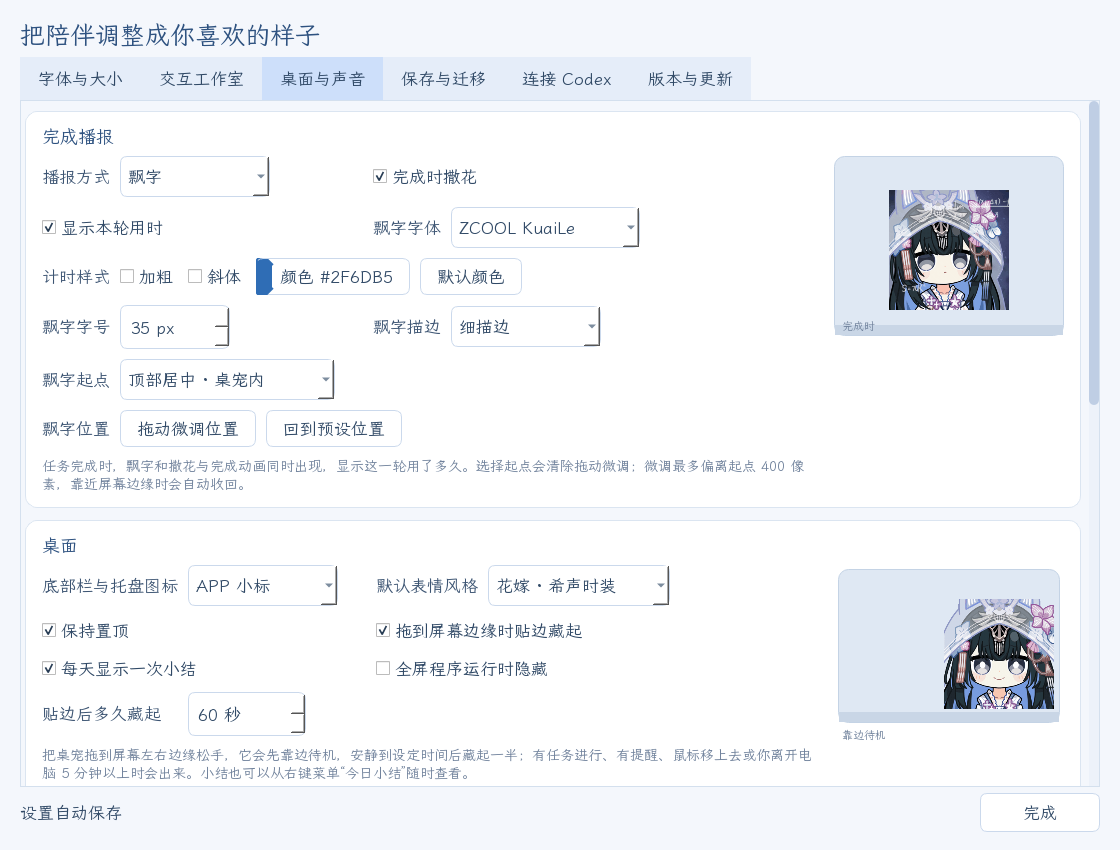
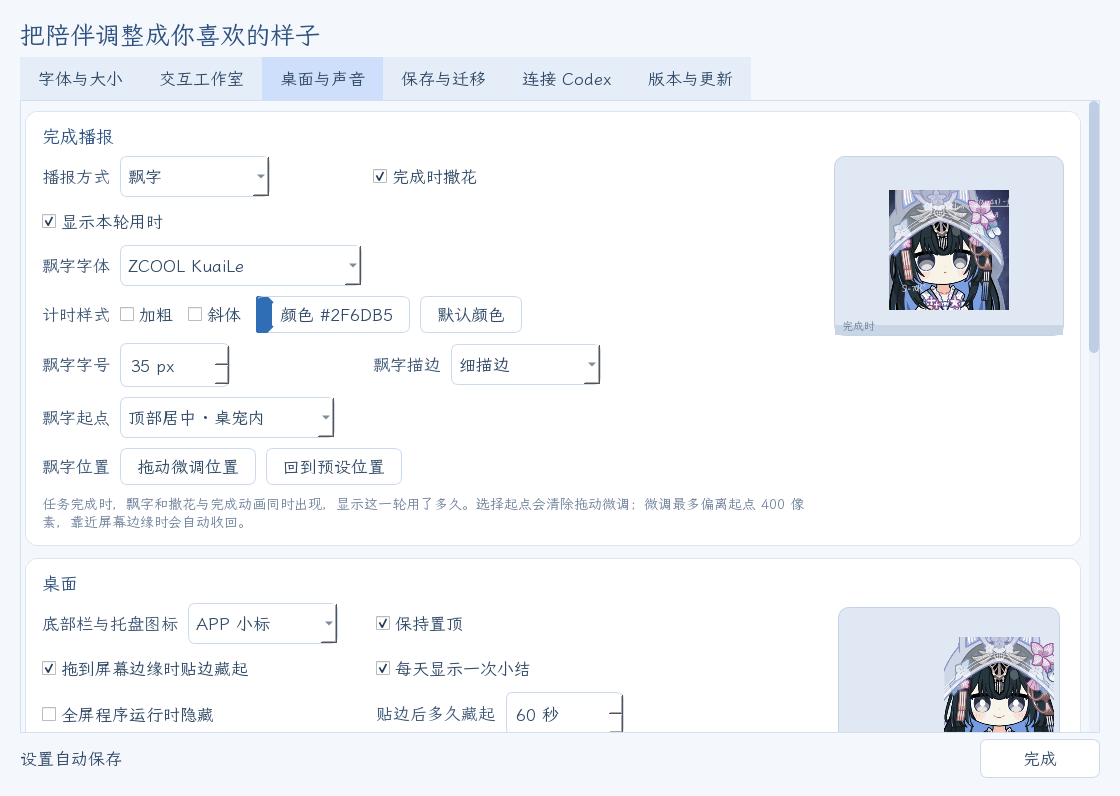
Remove the original-outfit expression preset
Its stand-ins for interactions without a same-named sticker were poor.
Selena now always starts from the bridal set: the skin drop-down is gone
from Desktop & Sound, and a saved or imported 原皮 preset falls back to
bridal. The original stickers stay in the library, and an interaction
set to one of them by hand keeps it. README and the settings screenshot
follow.

diff --git a/tests/test_skin_preset.py b/tests/test_skin_preset.py
@@ -1,0 +1,51 @@
+"""The 原皮 expression preset was removed: Selena always starts from the bridal set, while the original-outfit
+stickers stay in the library for anyone who picks them one interaction at a time."""
+import pathlib,tempfile,unittest
+from unittest.mock import patch
+from PySide6.QtWidgets import QApplication,QComboBox
+from selena_pet import pet as module
+from selena_pet.config_io import save_atomic
+
+
+class OriginalPresetRemovedTests(unittest.TestCase):
+    @classmethod
+    def setUpClass(cls):
+        cls.app=QApplication.instance() or QApplication([]);cls.app.setQuitOnLastWindowClosed(False)
+
+    def make(self,**settings):
+        self.temp=tempfile.TemporaryDirectory();path=pathlib.Path(self.temp.name)/'settings.json'
+        save_atomic(path,dict(appearance=dict(audio_muted=True),**settings))
+        self.patch=patch.object(module,'SETTINGS',path);self.patch.start()
+        self.pet=module.Pet(offline=True);self.pet.timer.stop();self.pet.slow_timer.stop()
+        return self.pet
+
+    def tearDown(self):
+        if getattr(self.pet,'preferences',None):self.pet.preferences.hide()
+        self.pet.hide();self.patch.stop();self.temp.cleanup()
+
+    def test_only_the_bridal_preset_is_left(self):
+        pet=self.make();self.assertEqual(list(module.PACKS),['花嫁']);self.assertEqual(pet.pack,'花嫁')
+
+    def test_a_saved_original_preset_falls_back_to_bridal(self):
+        pet=self.make(pack='原皮');self.assertEqual(pet.pack,'花嫁')
+        for state,asset in module.PACKS['花嫁'].items():self.assertEqual(pet.binding(state)['asset'],asset,state)
+
+    def test_imported_settings_with_the_original_preset_fall_back_too(self):
+        pet=self.make();pet.apply_settings(dict(pet.settings,pack='原皮'))
+        self.assertEqual(pet.pack,'花嫁');self.assertEqual(pet.binding('idle')['asset'],module.PACKS['花嫁']['idle'])
+
+    def test_original_stickers_stay_in_the_library_and_a_chosen_one_is_kept(self):
+        original=[a['id'] for a in module.CATALOG if a.get('skin')=='原皮']
+        self.assertEqual(len(original),48)
+        pet=self.make(pack='原皮',bindings=dict(pet=dict(asset=original[0])))
+        self.assertEqual(pet.binding('pet')['asset'],original[0])
+        self.assertEqual(pet.binding('idle')['asset'],module.PACKS['花嫁']['idle'])
+
+    def test_the_settings_offer_no_skin_preset(self):
+        pet=self.make();pet.open_preferences('桌面与声音');d=pet.preferences
+        texts=[c.itemText(i) for c in d.findChildren(QComboBox) for i in range(c.count())]
+        self.assertFalse([t for t in texts if '原皮' in t or '花嫁' in t],texts)
+
+
+if __name__=='__main__':
+    unittest.main()

diff --git a/selena_pet/preferences.py b/selena_pet/preferences.py
@@ -62,7 +62,6 @@ class Preferences(QDialog):
         voice.section('桌面',self.preview('desk'))
         icon_style=QComboBox();icon_style.addItem('APP 小标','badged');icon_style.addItem('纯净图标','clean')
         icon_style.currentIndexChanged.connect(lambda:self.change('tray_icon_style',icon_style.currentData()));self.controls['tray_icon_style']=icon_style;voice.addRow('底部栏与托盘图标',icon_style)
-        self.pack=QComboBox(); self.pack.addItem('花嫁 · 希声时装','花嫁'); self.pack.addItem('原皮 · 原版','原皮'); self.pack.currentIndexChanged.connect(lambda:pet.set_pack(self.pack.currentData()) if not self.loading else None); voice.addRow('默认表情风格',self.pack)
         self.top=QCheckBox('保持置顶'); self.top.toggled.connect(lambda value:pet.set_top(value) if not self.loading else None); voice.addRow(self.top)
         for key,label in (('edge_dock','拖到屏幕边缘时贴边藏起'),('daily_recap','每天显示一次小结'),('fullscreen_hide','全屏程序运行时隐藏')):
             box=QCheckBox(label); box.toggled.connect(lambda value,key=key:self.change(key,value)); self.controls[key]=box; voice.addRow(box)
@@ -209,7 +208,7 @@ class Preferences(QDialog):
             elif isinstance(control,QSpinBox): control.setValue(round(value))
             elif isinstance(control,QCheckBox): control.setChecked(bool(value))
             else: control.setText(value)
-        self.top.setChecked(self.pet.on_top); self.notes.setChecked(self.pet.show_notes); self.pack.setCurrentIndex(self.pack.findData(self.pet.pack))
+        self.top.setChecked(self.pet.on_top); self.notes.setChecked(self.pet.show_notes)
         self.refresh_threads(); self.size_control.refresh(); self.editor.update_timing(); self.paint_color_buttons()
         self.connection_status.setText('当前数据目录：'+str(self.pet.monitor.home)); self.loading=False
         for combo in self.findChildren(QComboBox):widen(combo)

diff --git a/selena_pet/pet.py b/selena_pet/pet.py
@@ -47,9 +47,9 @@ STATES={
  'doubleclick':('双击回应','我在呢，听到你的呼唤了。'),
 }
 PACKS={
- # 花嫁：希声时装表情包；原皮：原版表情包（没有同名动作的事件用意思最接近的一张）
+ # 花嫁：希声时装表情包，16 种交互都有同名表情。原皮等其他表情包仍在素材库里，可在交互工作室按动作单独选用；
+ # 旧配置里的“原皮”预设读取时回到花嫁（见 __init__ / apply_settings）。
  '花嫁':dict(pet='hd1-13',doubleclick='hb-13',hover='hb-11',drag='hd1-06',drop='hd2-18',feed='hb-15',idle='hd2-14',thinking='hb-08',reading='hd1-16',writing='hd1-15',working='hd1-14',waiting='hd2-01',done='hb-01',error='hd1-10',paused='hb-03',unknown='hb-16'),
- '原皮':dict(pet='yb-07',doubleclick='yb-13',hover='yb-11',drag='yb-09',drop='ys-08',feed='yb-15',idle='ys-02',thinking='yb-08',reading='ys-07',writing='yb-05',working='ys-01',waiting='yb-12',done='yb-01',error='ys-11',paused='yb-03',unknown='yb-16'),
 }
 DEFAULT_PACK='花嫁'
 # Existing frames only. Reversible small motions use ping-pong; reactions play once.
@@ -788,9 +788,6 @@ class Pet(PetRenderer,QWidget):
         self.set_top(bool(data.get('on_top',True))); self.save_settings(); self.clear_override(); self.apply_style(); self.apply_icon(); self.update_layout(); self.refresh_quota()
         if self.binding_editor: self.binding_editor.populate_gallery(); self.binding_editor.load_selection()
 
-    def set_pack(self,pack):
-        self.pack=pack; self.settings['pack']=pack; self.save_settings(); self.clear_override()
-        if self.binding_editor: self.binding_editor.load_selection()
     def cancel_pointer_interaction(self):
         self.hover_timer.stop(); self.click_timer.stop(); self.hovered=False
         self.quota_press=None

diff --git a/README.md b/README.md
@@ -17,7 +17,7 @@
 
 </div>
 
-适用于 **Windows 10/11 x64**。完整包附带两套皮肤共 128 个 GIF、115 条赛琳娜语音（含字幕）和字体。表情绑定、播放节奏、气泡、语音及外观都已预设，解压后双击「一键部署」即可使用，无需安装 Python。
+适用于 **Windows 10/11 x64**。完整包附带花嫁表情预设和共 128 个 GIF 的表情库、115 条赛琳娜语音（含字幕）和字体。表情绑定、播放节奏、气泡、语音及外观都已预设，解压后双击「一键部署」即可使用，无需安装 Python。
 
 ## 安装方法
 
@@ -45,16 +45,11 @@
 
 声音默认开启，音量为 10%。在「设置 → 桌面与声音」中调整或关闭。
 
-## 两套皮肤
+## 表情
 
-在 **设置 → 桌面与声音 → 默认表情风格** 中切换，立即生效：
+默认使用 **花嫁 · 希声时装** 表情包，16 种交互都有对应的花嫁表情。
 
-- **花嫁 · 希声时装**（默认）：16 种交互都有对应的花嫁表情。
-- **原皮 · 原版**：原版表情包；没有同名动作的交互，用意思最接近的一张代替。
-
-![原皮皮肤的 16 种交互](docs/images/events-original.jpg)
-
-每个交互也可以单独改成任意一张 GIF，两套皮肤的 128 张都能选。
+表情库里还有原皮、社区包、圣诞和新年系列，加上花嫁一共 128 张。在 **设置 → 交互工作室** 里，可以给任意一种交互单独换成其中任意一张，也可以导入自己的图片。
 
 ## 一键更新
 
@@ -83,7 +78,7 @@
 
 **声音与托盘**：Windows 音量合成器显示「赛琳娜 · Codex」，可单独调节音量。托盘提示为「赛琳娜 · Codex · 点击唤醒/隐藏」，单击即可切换显示。
 
-![桌面与声音：默认表情风格、贴边藏起和完成播报](docs/images/desktop-settings.png)
+![桌面与声音设置页：完成播报与桌面](docs/images/desktop-settings.png)
 
 ## 设置、静音与锁定
 

diff --git a/README.en.md b/README.en.md
@@ -17,7 +17,7 @@
 
 </div>
 
-For **Windows 10/11 x64**. The full package includes two skins with 128 GIFs, 115 Selena voice lines with subtitles, and fonts. Expressions, playback timing, bubbles, voices and appearance are preset. Extract the package, double-click the one-click deploy script and you are done; no Python installation is required.
+For **Windows 10/11 x64**. The full package includes the bridal expression set and a library of 128 GIFs, 115 Selena voice lines with subtitles, and fonts. Expressions, playback timing, bubbles, voices and appearance are preset. Extract the package, double-click the one-click deploy script and you are done; no Python installation is required.
 
 ## Installation
 
@@ -45,16 +45,11 @@ When a new version is out, the pet tells you; click **更新并重启赛琳娜**
 
 Sound is on by default at 10% volume. Change it in Settings → Desktop & Sound.
 
-## Two skins
+## Expressions
 
-Switch in **Settings → Desktop & Sound → Default expression style**; it applies immediately:
+Selena uses the **bridal** sticker set by default; every one of the 16 interactions has its own bridal expression.
 
-- **Bridal** (default): every one of the 16 interactions has its own bridal expression.
-- **Original**: the original-outfit sticker set. Interactions without a same-named sticker use the closest one.
-
-![The 16 interactions in the original skin](docs/images/events-original.jpg)
-
-Each interaction can also use any of the 128 GIFs from both skins.
+The library also holds the original-outfit, community, Christmas and New Year stickers, 128 in all. In **Settings → Interaction Studio** you can give any interaction any of them, or import your own images.
 
 ## One-click updates
 

diff --git a/docs/USAGE.md b/docs/USAGE.md
@@ -14,7 +14,7 @@
 4. 右键桌宠 → **设置 → 连接 Codex**，将跟随的会话设为 **自动跟随最近活动**。
 5. 右键 → **设置 → 交互工作室**，开始选择你喜欢的表情和声音。
 
-完整包已附带默认配置、两套皮肤共 128 个 GIF、115 条赛琳娜语音及内置字体，无需另装 Python。声音默认开启、音量 10%，可在“设置 → 桌面与声音”调整或关闭。
+完整包已附带默认配置、花嫁表情预设和共 128 个 GIF 的表情库、115 条赛琳娜语音及内置字体，无需另装 Python。声音默认开启、音量 10%，可在“设置 → 桌面与声音”调整或关闭。
 
 ## 可以做什么
 
